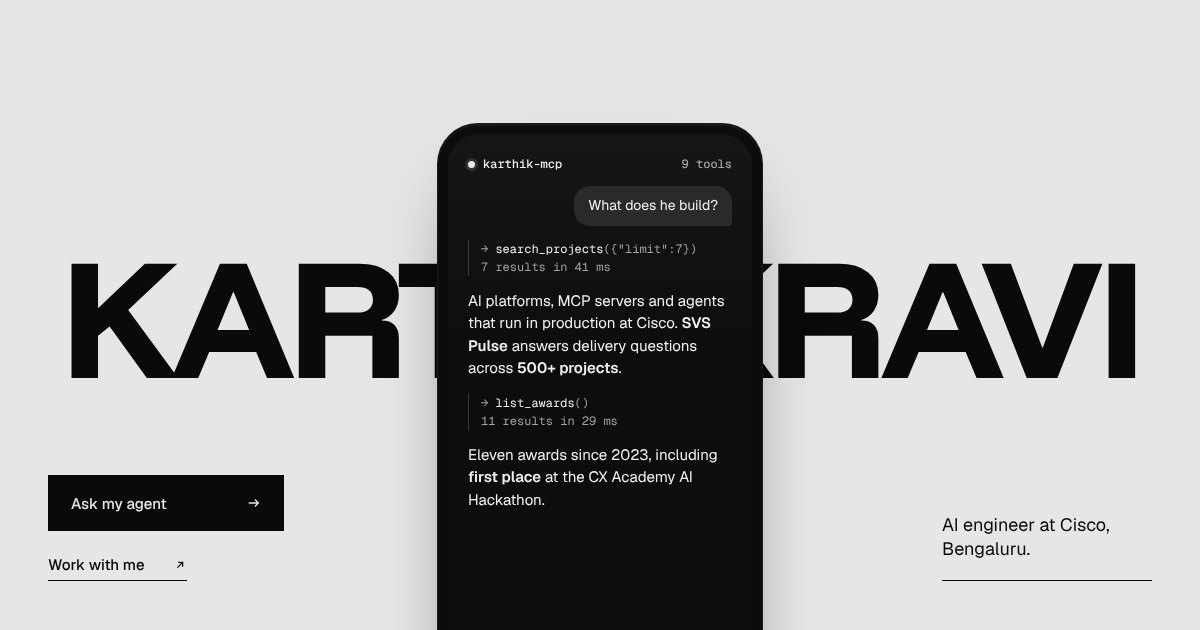
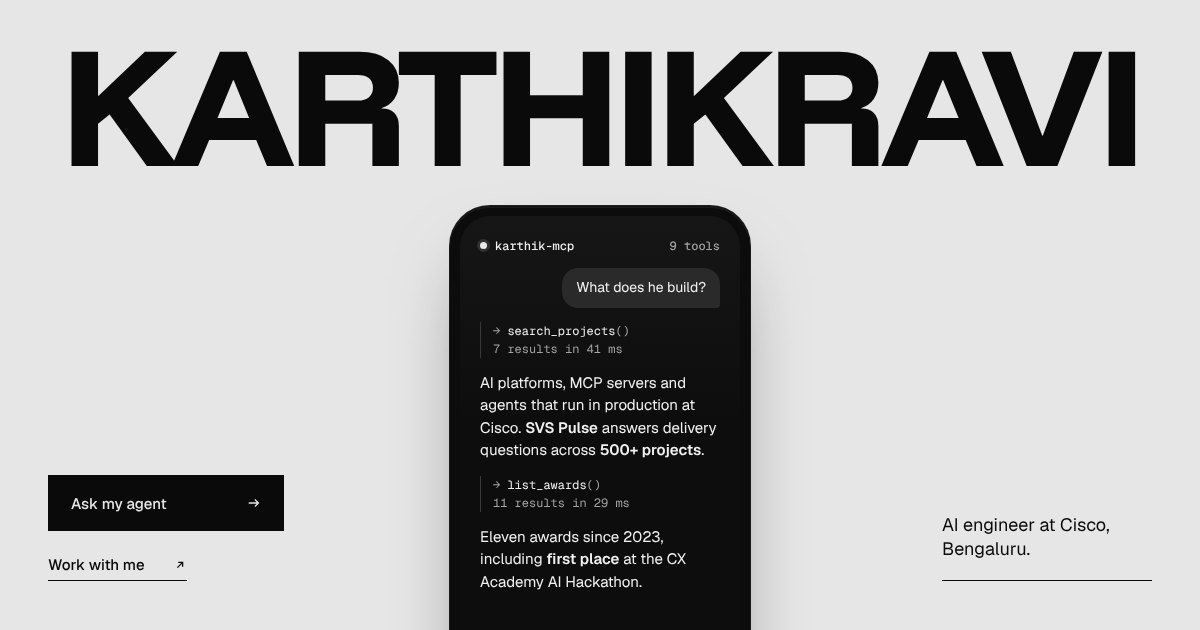
v2: remove every overlap and review all sizes
The agent device no longer covers the name: the wordmark sits alone on
top and the device stands in its own column below. Award cards are a
clean list instead of a rotated stack, slider buttons sit at the top of
the panel, slide visuals are centred, and phone layouts are left
aligned with tidier terminal and talk cards. Checked with an overlap
detector at seven sizes from 360px to 1485px.

Claude-Session: https://claude.ai/code/session_018Mgnt3Yw3aMY9u2s5aaVKq

Changed region(s): [[0.0617, 0.0603, 0.9558, 1.0]]

diff --git a/v2/index.html b/v2/index.html
@@ -78,9 +78,9 @@
 
   /* hero */
   .hero { position: relative; overflow: hidden; height: clamp(560px, calc(100svh - 76px), 820px); container-type: inline-size; }
-  .hero .wrap { position: relative; height: 100%; }
-  .wordmark { position: absolute; left: var(--gut); right: var(--gut); top: 50%; translate: 0 -50%; margin: 0; font: 800 min(14.1cqi, 182px)/.8 var(--display); letter-spacing: -0.045em; text-align: center; white-space: nowrap; color: var(--ink); user-select: none; }
-  .device { position: absolute; left: 50%; bottom: -70px; translate: -50% 0; width: clamp(290px, 27cqi, 352px); aspect-ratio: 9 / 16; background: #0c0c0c; border-radius: 40px; padding: 10px; box-shadow: 0 2px 0 rgb(255 255 255 / .05) inset, 0 40px 80px -30px rgb(0 0 0 / .55), 0 0 0 1px #1d1d1d; z-index: 2; }
+  .hero .wrap { position: relative; height: 100%; display: grid; grid-template-columns: 1fr auto 1fr; grid-template-rows: auto minmax(0, 1fr); column-gap: 32px; padding-top: clamp(28px, 5svh, 56px); }
+  .wordmark { grid-column: 1 / -1; margin: 0; font: 800 min(14.1cqi, 182px)/.8 var(--display); letter-spacing: -0.045em; text-align: center; white-space: nowrap; color: var(--ink); user-select: none; }
+  .device { grid-column: 2; grid-row: 2; align-self: start; position: relative; margin-top: clamp(32px, 5svh, 52px); width: clamp(280px, 25cqi, 340px); aspect-ratio: 9 / 16; background: #0c0c0c; border-radius: 40px; padding: 10px; box-shadow: 0 2px 0 rgb(255 255 255 / .05) inset, 0 40px 80px -30px rgb(0 0 0 / .55), 0 0 0 1px #1d1d1d; z-index: 2; }
   .device__screen { height: 100%; border-radius: 31px; background: linear-gradient(#161616, #0d0d0d 40%); color: var(--on-dark); padding: 22px 20px; display: flex; flex-direction: column; gap: 14px; overflow: hidden; }
   .device__bar { display: flex; justify-content: space-between; align-items: center; font: 500 12px var(--mono); color: var(--on-dark-2); }
   .device__bar b { font-weight: 500; color: var(--on-dark); display: inline-flex; align-items: center; gap: 8px; }
@@ -90,9 +90,9 @@
   .toolcall i { font-style: normal; color: var(--on-dark); }
   .device__answer { font-size: 15px; line-height: 1.5; margin: 0; }
   .device__answer b { font-weight: 600; }
-  .hero__cta { position: absolute; left: var(--gut); bottom: clamp(32px, 7svh, 64px); display: grid; gap: 22px; justify-items: start; z-index: 3; }
+  .hero__cta { grid-column: 1; grid-row: 2; align-self: end; margin-bottom: clamp(32px, 7svh, 64px); display: grid; gap: 22px; justify-items: start; }
   .hero__cta .btn { min-width: 236px; }
-  .hero__role { position: absolute; right: var(--gut); bottom: clamp(32px, 7svh, 64px); z-index: 3; width: 210px; font-size: 18px; line-height: 1.35; padding-bottom: 18px; border-bottom: 1px solid var(--ink); margin: 0; }
+  .hero__role { grid-column: 3; grid-row: 2; align-self: end; justify-self: end; margin-bottom: clamp(32px, 7svh, 64px) !important; width: 210px; font-size: 18px; line-height: 1.35; padding-bottom: 18px; border-bottom: 1px solid var(--ink); margin: 0; }
 
   /* dark band with soft seams */
   .band { background: var(--dark); color: var(--on-dark); position: relative; }
@@ -101,7 +101,7 @@
   .band::after { bottom: 0; background: linear-gradient(rgb(10 10 10 / 0), var(--to, var(--canvas))); }
 
   /* marquee */
-  .marquee { padding: 104px 0 118px; --to: var(--canvas); }
+  .marquee { padding: 120px 0 118px; --to: var(--canvas); }
   .marquee .eyebrow { position: relative; z-index: 2; color: var(--on-dark-2); letter-spacing: .02em; text-transform: none; font: 400 15px var(--sans); }
   .marquee__view { margin-top: 26px; overflow: hidden; -webkit-mask-image: linear-gradient(90deg, transparent, #000 8%, #000 92%, transparent); mask-image: linear-gradient(90deg, transparent, #000 8%, #000 92%, transparent); }
   .marquee__track { display: flex; width: max-content; animation: slide 46s linear infinite; }
@@ -116,8 +116,8 @@
   /* about slider */
   .about { background: var(--canvas); }
   .slider { display: grid; grid-template-columns: 58fr 42fr; min-height: min(780px, 100svh); }
-  .slider__stage { position: relative; background: linear-gradient(180deg, #e2e2e2, #d6d6d6 60%, #cfcfcf); overflow: hidden; display: grid; place-items: end center; padding-top: 120px; }
-  .slider__nav { position: absolute; inset: 50% 34px auto; translate: 0 -50%; display: flex; justify-content: space-between; z-index: 3; pointer-events: none; }
+  .slider__stage { position: relative; background: linear-gradient(180deg, #e2e2e2, #d6d6d6 60%, #cfcfcf); overflow: hidden; display: grid; place-items: center; padding: 96px clamp(24px, 4vw, 56px) 56px; }
+  .slider__nav { position: absolute; inset: 28px 28px auto; display: flex; justify-content: space-between; z-index: 3; pointer-events: none; }
   .navbtn { pointer-events: auto; display: inline-flex; align-items: center; gap: 10px; height: 38px; padding: 0 14px; background: rgb(237 237 237 / .9); border: 1px solid rgb(10 10 10 / .16); font: 600 12px var(--sans); letter-spacing: .1em; text-transform: uppercase; cursor: pointer; }
   .navbtn:hover { background: #fff; }
   .navbtn svg { width: 12px; height: 12px; }
@@ -146,38 +146,35 @@
   .q[hidden] { display: none !important; }
 
   /* drawn visuals (monochrome) */
-  .card { background: #fbfbfb; border-radius: 14px 14px 0 0; box-shadow: 0 30px 60px -28px rgb(0 0 0 / .4), 0 0 0 1px rgb(10 10 10 / .08); padding: 20px 22px 0; font-size: 14px; }
+  .card { background: #fbfbfb; border-radius: 14px; box-shadow: 0 30px 60px -28px rgb(0 0 0 / .4), 0 0 0 1px rgb(10 10 10 / .08); padding: 20px 22px 0; font-size: 14px; }
   .card__head { display: flex; justify-content: space-between; align-items: baseline; padding-bottom: 14px; border-bottom: 1px solid #e3e3e3; }
   .card__head b { font: 600 15px var(--sans); }
   .card__head span { font: 12px var(--mono); color: var(--mute); }
   .rows { list-style: none; margin: 0; padding: 0; }
   .rows li { display: grid; grid-template-columns: 1fr 64px 92px; align-items: center; gap: 12px; padding: 13px 0; border-bottom: 1px solid #ececec; }
-  .rows li:last-child { border-bottom: 0; padding-bottom: 22px; }
+  .rows li:last-child { border-bottom: 0; padding-bottom: 18px; }
   .meter { height: 4px; background: #e6e6e6; border-radius: 2px; overflow: hidden; }
   .meter i { display: block; height: 100%; background: var(--ink); }
   .rows em { font-style: normal; font: 12px var(--mono); color: var(--mute); text-align: right; }
   .rows .down em { color: var(--ink); font-weight: 500; }
-  .term { background: #0d0d0d; color: #e8e8e8; border-radius: 14px 14px 0 0; padding: 18px 22px 26px; font: 13px/1.75 var(--mono); box-shadow: 0 30px 60px -28px rgb(0 0 0 / .55); }
+  .term { background: #0d0d0d; color: #e8e8e8; border-radius: 14px; padding: 18px 22px 26px; font: 13px/1.75 var(--mono); box-shadow: 0 30px 60px -28px rgb(0 0 0 / .55); }
   .term__top { display: flex; gap: 7px; margin-bottom: 14px; }
   .term__top i { width: 10px; height: 10px; border-radius: 50%; background: #3a3a3a; }
   .term .d { color: #8b8b8b; }
   .term .ok::before { content: "✓ "; color: #fff; }
   .term .row { display: flex; justify-content: space-between; gap: 20px; }
-  .stack { position: relative; height: 380px; }
-  .cert { position: absolute; left: 50%; width: 82%; background: #fbfbfb; border-radius: 14px; padding: 26px 28px; box-shadow: 0 24px 50px -26px rgb(0 0 0 / .45), 0 0 0 1px rgb(10 10 10 / .08); }
-  .cert:nth-child(1) { bottom: 0; translate: -50% 0; z-index: 3; }
-  .cert:nth-child(2) { bottom: 92px; translate: -46% 0; rotate: 3deg; z-index: 2; background: #f1f1f1; }
-  .cert:nth-child(3) { bottom: 180px; translate: -54% 0; rotate: -3deg; z-index: 1; background: #e9e9e9; }
+  .stack { display: grid; gap: 12px; }
+  .cert { background: #fbfbfb; border-radius: 14px; padding: 26px 28px; box-shadow: 0 24px 50px -26px rgb(0 0 0 / .45), 0 0 0 1px rgb(10 10 10 / .08); }
   .cert__big { font: 800 84px/.85 var(--display); letter-spacing: -0.04em; }
   .cert__big sup { font-size: .4em; vertical-align: top; position: relative; top: .2em; }
   .cert__what { font-weight: 600; font-size: 17px; margin: 14px 0 2px; }
   .cert__by { font: 12px var(--mono); color: var(--mute); }
   .cert--small { padding: 18px 24px; display: flex; justify-content: space-between; align-items: baseline; gap: 16px; }
   .cert--small b { font-weight: 600; }
-  .talk { background: #0d0d0d; color: var(--on-dark); border-radius: 14px 14px 0 0; padding: 30px 30px 34px; aspect-ratio: 16 / 10; display: flex; flex-direction: column; justify-content: space-between; box-shadow: 0 30px 60px -28px rgb(0 0 0 / .55); }
+  .talk { background: #0d0d0d; color: var(--on-dark); border-radius: 14px; padding: 30px 30px 34px; aspect-ratio: 16 / 10; display: flex; flex-direction: column; justify-content: space-between; box-shadow: 0 30px 60px -28px rgb(0 0 0 / .55); }
   .talk__q { font: 600 clamp(24px, 2.6vw, 34px)/1.08 var(--sans); letter-spacing: -0.035em; margin: 0; }
   .talk__q span { color: var(--ghost-dark); }
-  .talk__meta { display: flex; justify-content: space-between; font: 12px var(--mono); color: var(--on-dark-2); }
+  .talk__meta { display: flex; flex-wrap: wrap; gap: 6px 20px; justify-content: space-between; font: 12px var(--mono); color: var(--on-dark-2); }
 
   /* agent */
   .agent { --from: var(--canvas); --to: var(--canvas-2); background: radial-gradient(60% 52% at 50% 64%, #2a2a2a 0, #0f0f0f 52%, var(--deep) 78%); padding: 150px 0 140px; overflow: hidden; }
@@ -259,7 +256,7 @@
   /* tablet */
   @media (max-width: 960px) {
     .slider { grid-template-columns: 1fr; }
-    .slider__stage { min-height: 460px; padding-top: 90px; }
+    .slider__stage { min-height: 0; padding: 88px 32px 48px; }
     .slider__text { border-left: 0; border-top: 1px solid var(--line); }
     .q--far { display: none; }
     .closing__cta { grid-template-columns: 1fr auto; }
@@ -270,6 +267,7 @@
   @media (max-width: 960px) {
     .hero { height: auto; }
     .hero .wrap { display: flex; flex-direction: column; padding-top: 36px; }
+    .hero__cta, .hero__role { margin-bottom: 0 !important; align-self: stretch; justify-self: stretch; }
     .wordmark { position: static; translate: none; font-size: 17.6cqi; text-align: left; letter-spacing: -0.05em; }
     .wordmark span { display: block; }
     .hero__role { position: static; width: auto; font-size: 17px; margin-top: 22px; border: 0; padding: 0; max-width: 24ch; order: 2; }
@@ -277,7 +275,7 @@
     .hero__cta { position: static; margin-top: 26px; grid-template-columns: 1fr; justify-items: stretch; }
     .hero__cta .btn { min-width: 0; }
     .hero__cta .tlink { justify-self: start; }
-    .device { position: relative; left: auto; translate: none; bottom: auto; order: 9; margin: 48px auto -170px; width: min(300px, 82%); }
+    .device { order: 9; margin: 48px auto -170px; width: min(300px, 82%); }
     .toolcall { font-size: 11px; }
     .chips .m-only { order: -1; }
     .agent__head { grid-template-columns: 1fr; }
@@ -296,10 +294,14 @@
     .masthead .wrap { height: 64px; }
     .masthead .nav-wide { display: none; }
     .marquee { padding: 96px 0 104px; }
-    .slider__stage { min-height: 400px; padding-top: 84px; }
-    .slider__nav { inset: 22px 20px auto; translate: none; }
+    .slider__stage { min-height: 0; padding: 80px 20px 36px; }
+    .slider__nav { inset: 22px 20px auto; }
     .slide__visual { width: 90%; }
-    .stack { height: 300px; } .cert__big { font-size: 64px; } .cert:nth-child(3) { display: none; }
+    .cert__big { font-size: 64px; }
+    .cert--small { flex-direction: column; gap: 2px; }
+    .term { font-size: 12px; padding: 16px 18px 20px; }
+    .term .row .d { display: none; }
+    .talk { aspect-ratio: auto; min-height: 220px; gap: 28px; padding: 24px; }
     .rows li { grid-template-columns: 1fr 70px; } .rows li .meter { display: none; }
     .agent { padding: 120px 0 110px; }
     .record { padding: 90px 0 100px; }
@@ -345,7 +347,7 @@
         <div class="device__screen">
           <div class="device__bar"><b><span class="dot"></span>karthik-mcp</b><span>9 tools</span></div>
           <div class="bubble">What does he build?</div>
-          <div class="toolcall">→ <i>search_projects</i>({"limit":7})<br>7 results in 41 ms</div>
+          <div class="toolcall">→ <i>search_projects</i>()<br>7 results in 41 ms</div>
           <p class="device__answer">AI platforms, MCP servers and agents that run in production at Cisco. <b>SVS Pulse</b> answers delivery questions across <b>500+ projects</b>.</p>
           <div class="toolcall">→ <i>list_awards</i>()<br>11 results in 29 ms</div>
           <p class="device__answer">Eleven awards since 2023, including <b>first place</b> at the CX Academy AI Hackathon.</p>
